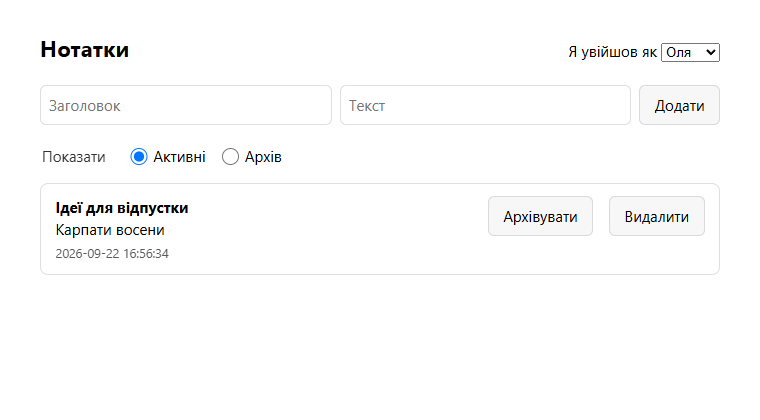
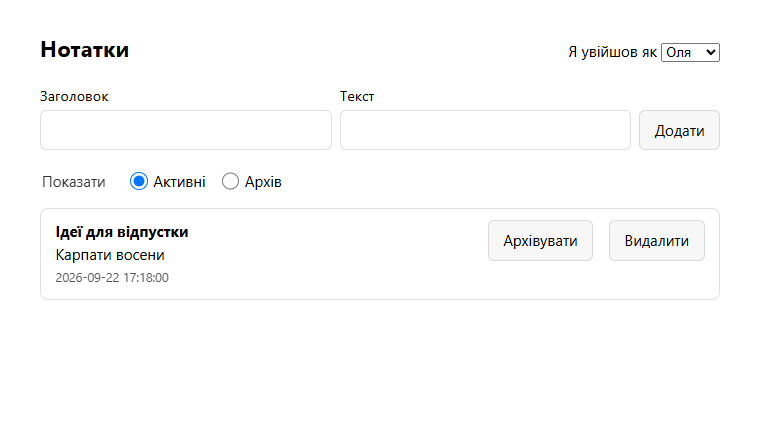
WS8: правки за рев'ю CodeRabbit — шляхи помилок на клієнті + <label>
Прийнято 5 з 5. Усі чотири зауваження до app.js — мої помилки, не агента:
- успіх дії більше не оголошується поверх помилки перезавантаження списку:
  load() повертає "ok" | "failed" | "superseded";
- гонка при швидкому перемиканні видів: лише найновіший load() змінює DOM
  (лічильник запитів), тож повільна відповідь «Активних» не ляже під
  заголовок «Архів»;
- try/catch навколо кожного fetch (load, сабміт форми);
- фокус повертається на кнопку і після обриву мережі.
- index.html: видимі <label for> для полів — пряма вимога .coderabbit.yaml,
  яку я помилково записав у «лишили свідомо».

Кожен сценарій тепер відтворюється в browser-check.mjs перехопленням запитів
(затримка 900 мс, route.abort, 500 на перезавантаженні). Мій UI 22/22, код
агента 7/22. Заодно: темна тема перевіряється на обох видах — раніше вона
могла потрапити на порожній список і не побачити кнопок.

docs: запис 7 в ai-mistakes.md (мої помилки, знайдені рев'ю), оновлені числа
й скріншоти, у task-e-bonus.md label перенесено з «лишили» в «полагодили».

Claude-Session: https://claude.ai/code/session_01G547yaNy2WirpFsk4bCfsq

diff --git a/app/public/app.js b/app/public/app.js
@@ -119,12 +119,27 @@ async function changeNote(button, index, role, send, doneMessage) {
       button.focus();
       return;
     }
-    await load();
-    announce(doneMessage);
-    restoreFocus(role, index);
   } catch {
     announce("Не вдалося зв’язатися з сервером.");
     button.disabled = false;
+    button.focus();
+    return;
+  }
+
+  // The action itself succeeded. What we say next depends on the reload:
+  const outcome = await load();
+  if (outcome === "ok") {
+    announce(doneMessage);
+    restoreFocus(role, index);
+  } else if (outcome === "superseded") {
+    // The user already switched view or user; a newer load owns the list and
+    // focus. Report the action, but do not pull focus back.
+    announce(doneMessage);
+  } else {
+    // load() has already announced its error; the list on screen is stale, so
+    // give the user their button back rather than claiming success.
+    button.disabled = false;
+    button.focus();
   }
 }
 
@@ -136,34 +151,59 @@ async function errorText(res) {
   }
 }
 
+// Every load() gets a number; only the newest one may touch the DOM. Without
+// this, switching views quickly lets a slow earlier response land last and
+// show active notes under the "Архів" heading, or the other way round.
+let latestLoad = 0;
+
+/** @returns {Promise<"ok" | "failed" | "superseded">} */
 async function load() {
+  const ticket = ++latestLoad;
   const view = currentView();
+  const user = userSelect.value;
+
+  let notes;
+  try {
+    const res = await fetch(`/api/notes?archived=${view === "archived"}`, { headers: headers() });
+    if (ticket !== latestLoad) return "superseded";
+    if (!res.ok) {
+      announce(`Не вдалося завантажити нотатки: ${await errorText(res)}`);
+      return "failed";
+    }
+    notes = await res.json();
+  } catch {
+    if (ticket !== latestLoad) return "superseded";
+    announce("Не вдалося завантажити нотатки: немає зв’язку з сервером.");
+    return "failed";
+  }
+  if (ticket !== latestLoad || view !== currentView() || user !== userSelect.value) {
+    return "superseded";
+  }
+
   heading.textContent = VIEWS[view].heading;
   form.hidden = view === "archived";
-
-  const res = await fetch(`/api/notes?archived=${view === "archived"}`, { headers: headers() });
-  if (!res.ok) {
-    announce(`Не вдалося завантажити нотатки: ${await errorText(res)}`);
-    return;
-  }
-  const notes = await res.json();
-
   list.replaceChildren(...notes.map(noteItem));
   empty.textContent = VIEWS[view].empty;
   empty.hidden = notes.length > 0;
+  return "ok";
 }
 
 form.addEventListener("submit", async (e) => {
   e.preventDefault();
   const title = document.querySelector("#title");
   const body = document.querySelector("#body");
-  const res = await fetch("/api/notes", {
-    method: "POST",
-    headers: headers(),
-    body: JSON.stringify({ title: title.value, body: body.value }),
-  });
-  if (!res.ok) {
-    announce(`Не вдалося додати нотатку: ${await errorText(res)}`);
+  try {
+    const res = await fetch("/api/notes", {
+      method: "POST",
+      headers: headers(),
+      body: JSON.stringify({ title: title.value, body: body.value }),
+    });
+    if (!res.ok) {
+      announce(`Не вдалося додати нотатку: ${await errorText(res)}`);
+      return;
+    }
+  } catch {
+    announce("Не вдалося додати нотатку: немає зв’язку з сервером.");
     return;
   }
   title.value = "";

diff --git a/app/public/index.html b/app/public/index.html
@@ -19,9 +19,17 @@
     </header>
 
     <main>
+      <!-- Visible labels tied by for/id: a placeholder vanishes as soon as the
+           user starts typing, and then nothing on screen says what the field is. -->
       <form id="new-note">
-        <input id="title" placeholder="Заголовок" aria-label="Заголовок" required />
-        <input id="body" placeholder="Текст" aria-label="Текст" />
+        <div class="field">
+          <label for="title">Заголовок</label>
+          <input id="title" required />
+        </div>
+        <div class="field">
+          <label for="body">Текст</label>
+          <input id="body" />
+        </div>
         <button type="submit">Додати</button>
       </form>
 

diff --git a/app/public/style.css b/app/public/style.css
@@ -33,3 +33,6 @@ button:focus-visible, input:focus-visible, select:focus-visible { outline: 2px s
   position: absolute; width: 1px; height: 1px; padding: 0; margin: -1px;
   overflow: hidden; clip: rect(0 0 0 0); white-space: nowrap; border: 0;
 }
+form { align-items: flex-end; }
+.field { flex: 1; display: flex; flex-direction: column; gap: .2rem; }
+.field label { font-size: .9rem; }

diff --git a/docs/ai-mistakes.md b/docs/ai-mistakes.md
@@ -7,13 +7,14 @@
   пастки ([промпт нижче](#як-проводився-прогін-агента)). Його результат я не
   брав у репо як є — я ревʼюю його, а свою реалізацію писав окремо.
 - **Я** — основна сесія Claude Code, Opus 5, яка писала код цього PR. Мої
-  помилки теж тут: у записі 3 ми з агентом зробили ту саму.
+  помилки теж тут: у записі 3 ми з агентом зробили ту саму, а запис 7 —
+  цілком мій, і знайшов його не я, а рев'ю CodeRabbit.
 
 Усі сирі докази — в [`docs/evidence/`](evidence/): дифф і звіт агента, вивід
 проб бекенду й браузерних перевірок обох реалізацій, скріншоти.
 
 **Підсумок у цифрах:** той самий [`scripts/browser-check.mjs`](../scripts/browser-check.mjs)
-на реалізації агента — **6/16**, на моїй — **16/16**. Усі 13 тестів агента при
+на реалізації агента — **7/22**, на моїй — **22/22**. Усі 13 тестів агента при
 цьому зелені — і лишаються зеленими навіть тоді, коли в його код повернути
 засіяну діру (запис 2).
 
@@ -150,6 +151,37 @@
 - **Як помітив:** проба з некоректними значеннями.
 - **Як полагодив:** лише `true`/`false`, інше → 400; `archived` у всіх
   відповідях — boolean.
+
+## 7. Мій клієнт: щасливий шлях — так, шляхи помилок — ні (знайшов CodeRabbit)
+
+- **Що просив:** це вже мій код, не агента. Я сам поставив собі задачу
+  «помилки API показуються, а не ламають рендер».
+- **Що видав:** обробку лише **однієї** гілки помилок — `!res.ok`. Рев'ю
+  CodeRabbit знайшло чотири дірки, і всі підтвердились:
+  - дія вдалась, а **перезавантаження списку впало** → `load()` оголошує
+    помилку, а `changeNote()` одразу перебиває її повідомленням про успіх і
+    переводить фокус у застарілий список;
+  - **обрив мережі** (`fetch` відхиляє Promise) у `load()` і в сабміті форми →
+    необроблений виняток, користувач не чує нічого;
+  - після обриву мережі на дії кнопку розблоковано, але **фокус не повернуто**;
+  - **гонка:** швидко перемкнути «Активні» → «Архів» — і повільна відповідь
+    першого запиту приходила останньою: заголовок «Архів», а під ним активні
+    нотатки.
+- **Як помітив:** не помітив — рев'ю. Мій скрипт перевіряв лише успішні
+  переходи, а 37 API-тестів клієнта не бачать узагалі.
+- **Як полагодив:** `load()` повертає `"ok" | "failed" | "superseded"`, і лише
+  найновіший виклик має право змінювати DOM (лічильник запитів); успіх
+  оголошується тільки після успішного перезавантаження; `try/catch` навколо
+  кожного `fetch`; фокус повертається на кнопку в усіх гілках помилок. Кожен
+  сценарій тепер **відтворюється** в `browser-check.mjs` перехопленням
+  запитів Playwright: затримка відповіді на 900 мс (`race:stale-list-does-not-win`),
+  `route.abort()` на `PATCH` (`net:action-failure-reported`), `500` на
+  перезавантаженні (`net:no-success-over-reload-error`). Код агента не проходить
+  жодного з них.
+- **Чому так вийшло (гіпотеза):** я перевіряв те, що бачив у браузері, а в
+  браузері на localhost мережа не падає й відповідає миттєво. Шляхи помилок
+  існують лише тоді, коли їх **спеціально спричинити** — а я цього не робив,
+  доки не вказали.
 
 ## Дрібне, але варте запису
 
